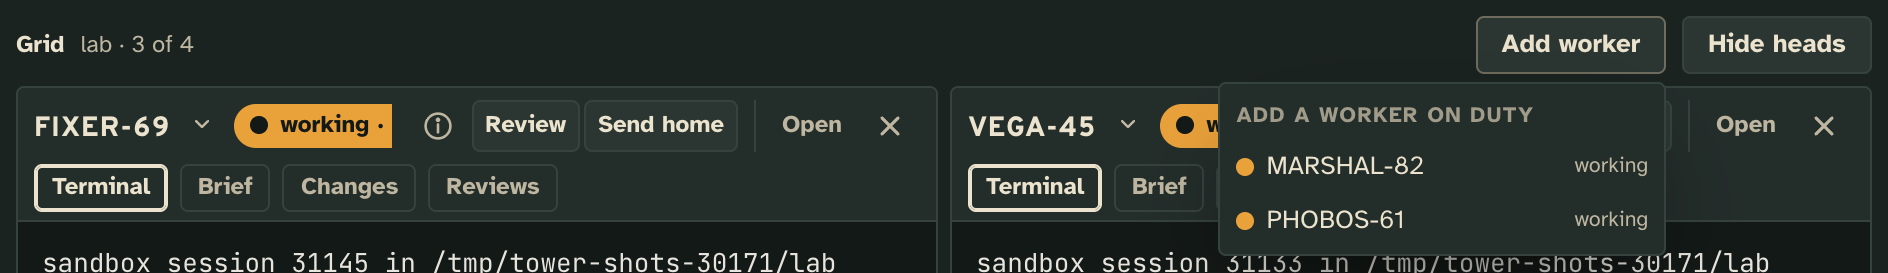
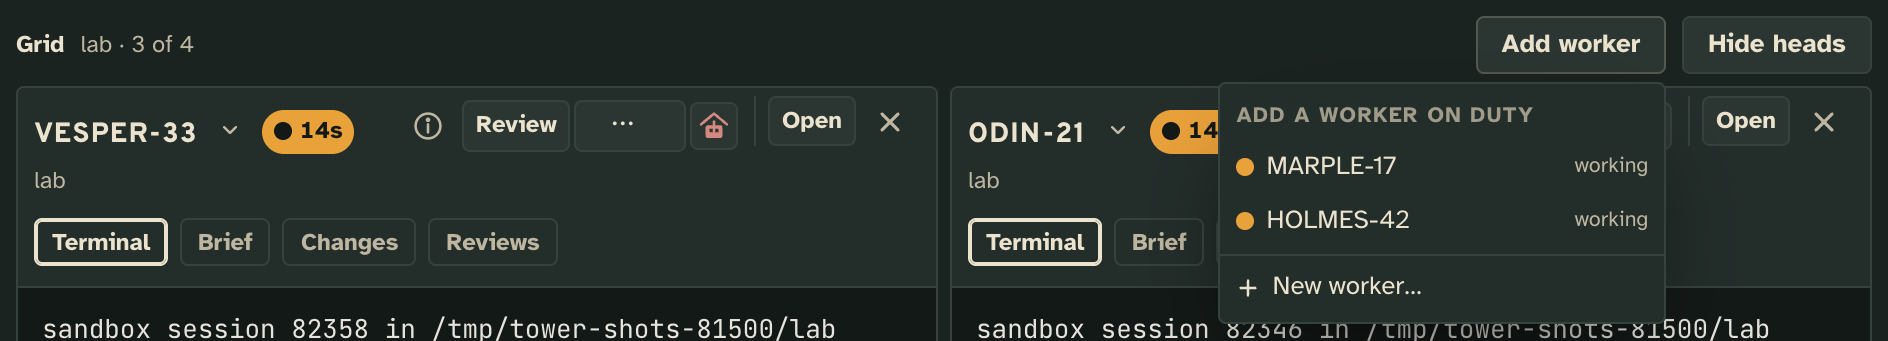
grid 2.3: New worker… on the Add worker menu
Add worker could only put a worker already on duty in a cell. The menu
now ends with New worker…, the tower's new-worker form on the floor
(one row per floor on the grid of every floor, each while a worker can
start there). The grid opens it with kit.spawn, so it copies none of
the form, and the worker it answers takes a new cell, Starting a
worker… until the board carries it, while the page stays on the grid.
Add worker, New worker… and a card displayed with the grid share one
join, which in a full grid takes the first cell's place.

Requires API 1.146 for kit.spawn. The add pictures are retaken; the
others are left as they were.

diff --git a/examples/extensions/grid/client/grid.js b/examples/extensions/grid/client/grid.js
@@ -1,4 +1,4 @@
-import { cardSubject, esc, lampOf, statusName } from '/cards.js'
+import { can, cardSubject, esc, floorSubject, lampOf, statusName } from '/cards.js'
 import { ICON } from '/icons.js'
 
 /**
@@ -8,7 +8,11 @@ import { ICON } from '/icons.js'
  * (`cells.<floor key>`), so a reload opens the same cells; whether the cells show heads is kept beside it (`head`).
  * The grid's own controls go to each worker's head through its options: Open and ✕ as `acts`, and the callsign as a
  * `pick` of the floor's workers on duty, which puts the one picked in that cell (two cells swap when it has one). The
- * grid's bar adds a cell while it has room: Add worker, a menu of the floor's workers on duty not in a cell. Three
+ * grid's bar adds a cell while it has room: Add worker, a menu of the floor's workers on duty not in a cell, then New
+ * worker…, the tower's new-worker form on the floor (`kit.spawn`, where the renderer lends it; one row per floor on the
+ * board's grid), whose worker takes a new cell, drawn as starting until the board carries it, the page staying on the
+ * grid. A reload while it
+ * starts keeps its cell but not that it is starting: the cell shows the worker, or that it isn't on the board. Three
  * cells are two over one. A card displayed with this view joins its floor's grid.
  */
 
@@ -27,6 +31,8 @@ const STYLE = `
 :where([data-view="grid/grid"]) .grid-add button:hover, :where([data-view="grid/grid"]) .grid-add button:focus-visible { background: var(--panel-2); }
 :where([data-view="grid/grid"]) .grid-add small { margin-left: auto; padding-left: var(--sp-l); color: var(--muted); }
 :where([data-view="grid/grid"]) .grid-add .none { padding: var(--sp-xs) var(--sp-m); color: var(--muted); }
+:where([data-view="grid/grid"]) .grid-add [data-grid-new] { margin-top: var(--sp-xs); border-top: 1px solid var(--line); padding-top: var(--sp-s); }
+:where([data-view="grid/grid"]) .grid-add [data-grid-new] + [data-grid-new] { margin-top: 0; border-top: 0; padding-top: var(--sp-xs); }
 :where([data-view="grid/grid"]) .grid-cells { flex: 1; min-height: 0; display: grid; gap: var(--sp-s); grid-template-columns: repeat(var(--cols), minmax(0, 1fr)); grid-auto-rows: minmax(0, 1fr); }
 :where([data-view="grid/grid"]) .grid-cells.three > .grid-cell:nth-child(3) { grid-column: 1 / -1; }
 :where([data-view="grid/grid"]) .grid-cell { min-width: 0; min-height: 0; display: flex; flex-direction: column; background: var(--panel); border: 1px solid var(--line); border-radius: var(--radius); overflow: hidden; }
@@ -40,8 +46,11 @@ const ACTS = [
   { id: 'drop', label: 'Take it out of the grid', icon: 'close' },
 ]
 
-/** Every card of the floor `key` names, or of every floor for the board's grid. */
-const cardsOf = (board, key) => board.floors.filter((f) => key === 'board' || `floor:${f.id}` === key).flatMap((f) => f.cards)
+/** The floor `key` names, or every floor for the board's grid. */
+const floorsOf = (board, key) => board.floors.filter((f) => key === 'board' || `floor:${f.id}` === key)
+
+/** Every card of the floors a grid holds. */
+const cardsOf = (board, key) => floorsOf(board, key).flatMap((f) => f.cards)
 
 /** The cells a grid opens with when it has none kept: its floor's workers on duty. */
 const seed = (board, key) => cardsOf(board, key).filter((c) => c.onDuty).slice(0, MAX).map((c) => c.id)
@@ -63,10 +72,12 @@ export async function mount(host, { board, subject, kit, state }) {
   let now = board
   /** Each cell's element, the `card.cell` region on its worker, and the options it was last given, by worker. @type {Map<string, { el: HTMLElement, region: ReturnType<typeof kit.region> | undefined, given: string }>} */
   const cells = new Map()
+  /** The workers this grid started whose cards the board doesn't carry yet: drawn as starting, not as gone. @type {Set<string>} */
+  const starting = new Set()
 
   const cardOf = (id) => now.floors.flatMap((f) => f.cards).find((c) => c.id === id)
   const keep = () => state.set(`cells.${key}`, ids)
-  const label = () => (key === 'board' ? 'every floor' : now.floors.find((f) => `floor:${f.id}` === key)?.name ?? key)
+  const label = () => (key === 'board' ? 'every floor' : floorsOf(now, key)[0]?.name ?? key)
 
   const pop = `grid-add-${uuid()}`
   host.innerHTML = `<style>${STYLE}</style><div class="grid-bar"><b>Grid</b><span></span><button data-grid-open-add popovertarget="${pop}">Add worker</button><button data-grid-heads></button><div class="grid-add" id="${pop}" popover></div></div><div class="grid-cells"></div>`
@@ -84,12 +95,19 @@ export async function mount(host, { board, subject, kit, state }) {
 
   let painted = ''
 
-  /** The menu of workers to add: the floor's on duty and in no cell, each by its lamp, callsign and status. */
+  /** New worker…, on each floor the grid holds where a worker can start now (none while the host is down), when the renderer lends `kit.spawn`. */
+  const newRowsHtml = () =>
+    (kit.spawn ? floorsOf(now, key) : [])
+      .filter((f) => can(f, 'spawn'))
+      .map((f) => `<button data-grid-new="${esc(f.id)}">${ICON.plus}${key === 'board' ? `New worker on ${esc(f.name)}…` : 'New worker…'}</button>`)
+      .join('')
+
+  /** The menu of workers to add: the floor's on duty and in no cell, each by its lamp, callsign and status, then New worker…. */
   const addMenuHtml = () => {
     const rows = cardsOf(now, key)
       .filter((c) => c.onDuty && !ids.includes(c.id))
       .map((c) => `<button data-grid-add="${esc(c.id)}"><span class="lamp ${lampOf(c)}"></span>${esc(c.callsign)}<small>${esc(statusName(c))}</small></button>`)
-    return `<h3>Add a worker on duty</h3>${rows.join('') || '<div class="none">no other worker on duty</div>'}`
+    return `<h3>Add a worker on duty</h3>${rows.join('') || '<div class="none">no other worker on duty</div>'}${newRowsHtml()}`
   }
 
   /** What the worker in a cell is told: the heads toggle, the grid's controls, the floor's workers on duty to pick from, and no "Add to grid". */
@@ -122,6 +140,7 @@ export async function mount(host, { board, subject, kit, state }) {
     grid.style.setProperty('--cols', String(ids.length >= 3 ? 2 : Math.max(ids.length, 1)))
     grid.classList.toggle('three', ids.length === 3)
     for (const [id, cell] of cells) if (!ids.includes(id)) (letGo(cell), cell.el.remove(), cells.delete(id))
+    for (const id of starting) if (!ids.includes(id)) starting.delete(id)
     if (!ids.length) grid.innerHTML = `<p class="grid-note">No worker here yet. Add one with Add worker, or Add to grid on its bar.</p>`
     else grid.querySelector('.grid-note')?.remove()
     ids.forEach((id, n) => {
@@ -134,9 +153,11 @@ export async function mount(host, { board, subject, kit, state }) {
         cells.set(id, cell)
       }
       const c = cardOf(id)
+      if (c) starting.delete(id)
       const options = optionsOf(id)
       const given = JSON.stringify(options)
-      if (!c) (letGo(cell), (cell.el.innerHTML = `<p class="grid-note">${esc(id)} is no longer on the board <button class="icon-btn" data-grid-drop aria-label="Take it out of the grid">${ICON.close}</button></p>`))
+      const gone = starting.has(id) ? 'Starting a worker…' : `${esc(id)} is no longer on the board`
+      if (!c) (letGo(cell), (cell.el.innerHTML = `<p class="grid-note">${gone} <button class="icon-btn" data-grid-drop aria-label="Take it out of the grid">${ICON.close}</button></p>`))
       else if (!cell.region) cell.region = kit.region(cell.el, 'card.cell', cardSubject(c), options)
       else {
         cell.region.update(cardSubject(c))
@@ -150,6 +171,25 @@ export async function mount(host, { board, subject, kit, state }) {
   /** @param {string} id */
   const drop = (id) => ((ids = ids.filter((d) => d !== id)), keep(), draw())
 
+  /** The worker `id` takes a new cell; in a full grid, the first cell's place. @param {string} id */
+  const join = (id) => {
+    if (ids.includes(id)) return
+    ids = [...ids, id].slice(-MAX)
+    keep()
+    draw()
+  }
+
+  /** The tower's new-worker form on the floor `project`: the worker it starts takes a new cell. @param {string} project */
+  async function startOn(project) {
+    menu.hidePopover()
+    const f = now.floors.find((f) => f.id === project)
+    if (!f) return
+    const id = await kit.spawn(floorSubject(f))
+    if (!id) return
+    starting.add(id)
+    join(id)
+  }
+
   /** The worker `to` takes the cell of `from`: one already in a cell swaps places with it. */
   function swap(from, to) {
     const at = ids.indexOf(from)
@@ -162,7 +202,9 @@ export async function mount(host, { board, subject, kit, state }) {
   host.addEventListener('click', (e) => {
     if (e.target.closest('[data-grid-drop]')) return drop(e.target.closest('[data-cell]').dataset.cell)
     const added = e.target.closest('[data-grid-add]')
-    if (added) return (menu.hidePopover(), (ids = [...ids, added.dataset.gridAdd]), keep(), draw())
+    if (added) return (menu.hidePopover(), join(added.dataset.gridAdd))
+    const fresh = e.target.closest('[data-grid-new]')
+    if (fresh) return void startOn(fresh.dataset.gridNew)
     if (!e.target.closest('[data-grid-heads]')) return
     head = !head
     state.set('head', head)
@@ -188,7 +230,7 @@ export async function mount(host, { board, subject, kit, state }) {
     show(s) {
       if (s.key === key) return true
       if (s.kind !== 'card' || (key !== 'board' && `floor:${s.project}` !== key)) return false
-      if (!ids.includes(s.value.id)) (ids = [...ids, s.value.id].slice(-MAX), keep(), draw())
+      join(s.value.id)
       return true
     },
     close() {

diff --git a/examples/extensions/grid/README.md b/examples/extensions/grid/README.md
@@ -32,7 +32,9 @@ swaps places with it.
 | ![Swapping a cell's worker](shots/pick-light.png) | ![Swapping a cell's worker](shots/pick-dark.png) |
 
 **Add worker**, while the grid has fewer than four cells, lists the floor's workers on duty that are in no cell: the
-one picked takes a new cell.
+one picked takes a new cell. **New worker…** at its end opens the tower's new-worker form on the floor (on the grid of
+every floor, one row per floor): the worker it starts takes a new cell, saying Starting a worker… until it is on the
+board, and you stay on the grid. It shows where the tower lends that form to views (the tower page, from tower 1.146).
 
 | Light | Dark |
 | --- | --- |
@@ -75,8 +77,9 @@ Nothing. Its chord is the config's to change: `"keys": { "grid/grid": ["Meta+Shi
 
 Grid is client code only, a view, a region and a command. Each cell is the region `card.cell`, which the tower fills
 with the worker's own view at `cell` scale; the grid draws nothing in a cell itself, but hands the worker's head its
-Open and ✕ (`acts`) and the swap menu (`pick`). Which workers fill the cells, and whether heads show, are the view's
-own state, kept in `tower.store`.
+Open and ✕ (`acts`) and the swap menu (`pick`). New worker… is `kit.spawn`, the renderer's own form, which answers
+the worker it started, so the grid copies none of the form. Which workers fill the cells, and whether heads show, are
+the view's own state, kept in `tower.store`.
 
 ## Make it yours
 
